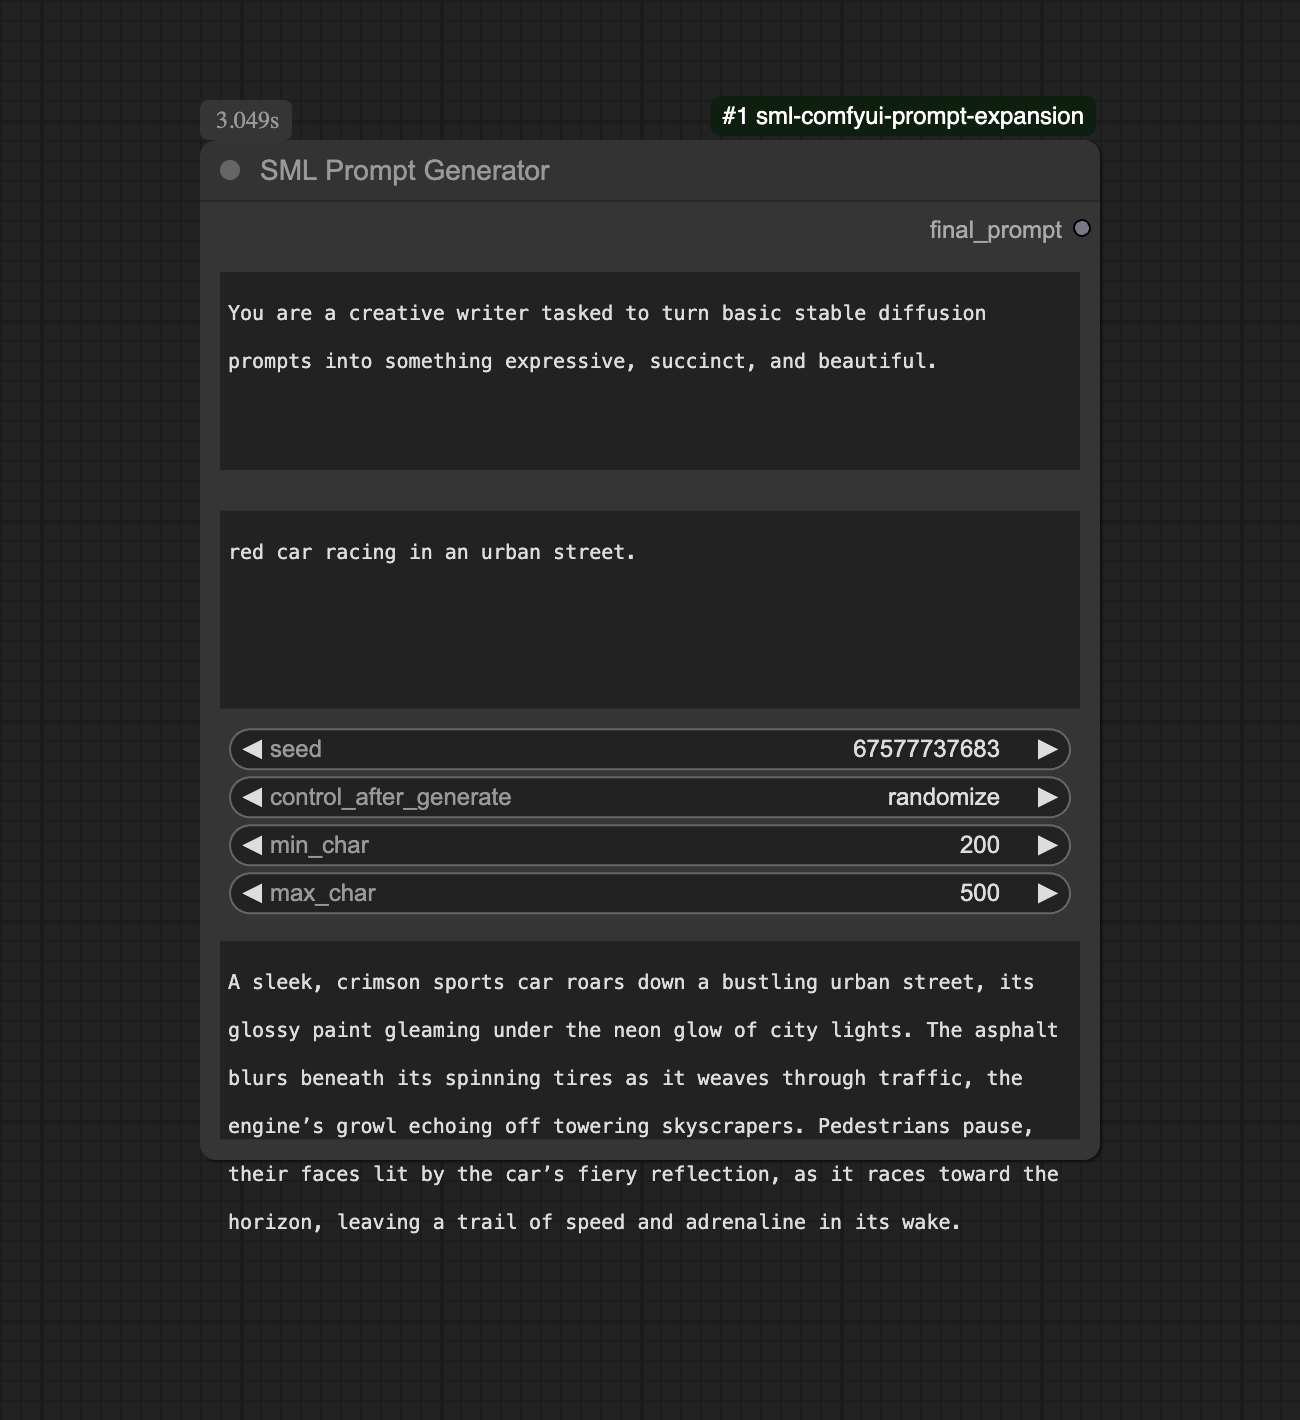
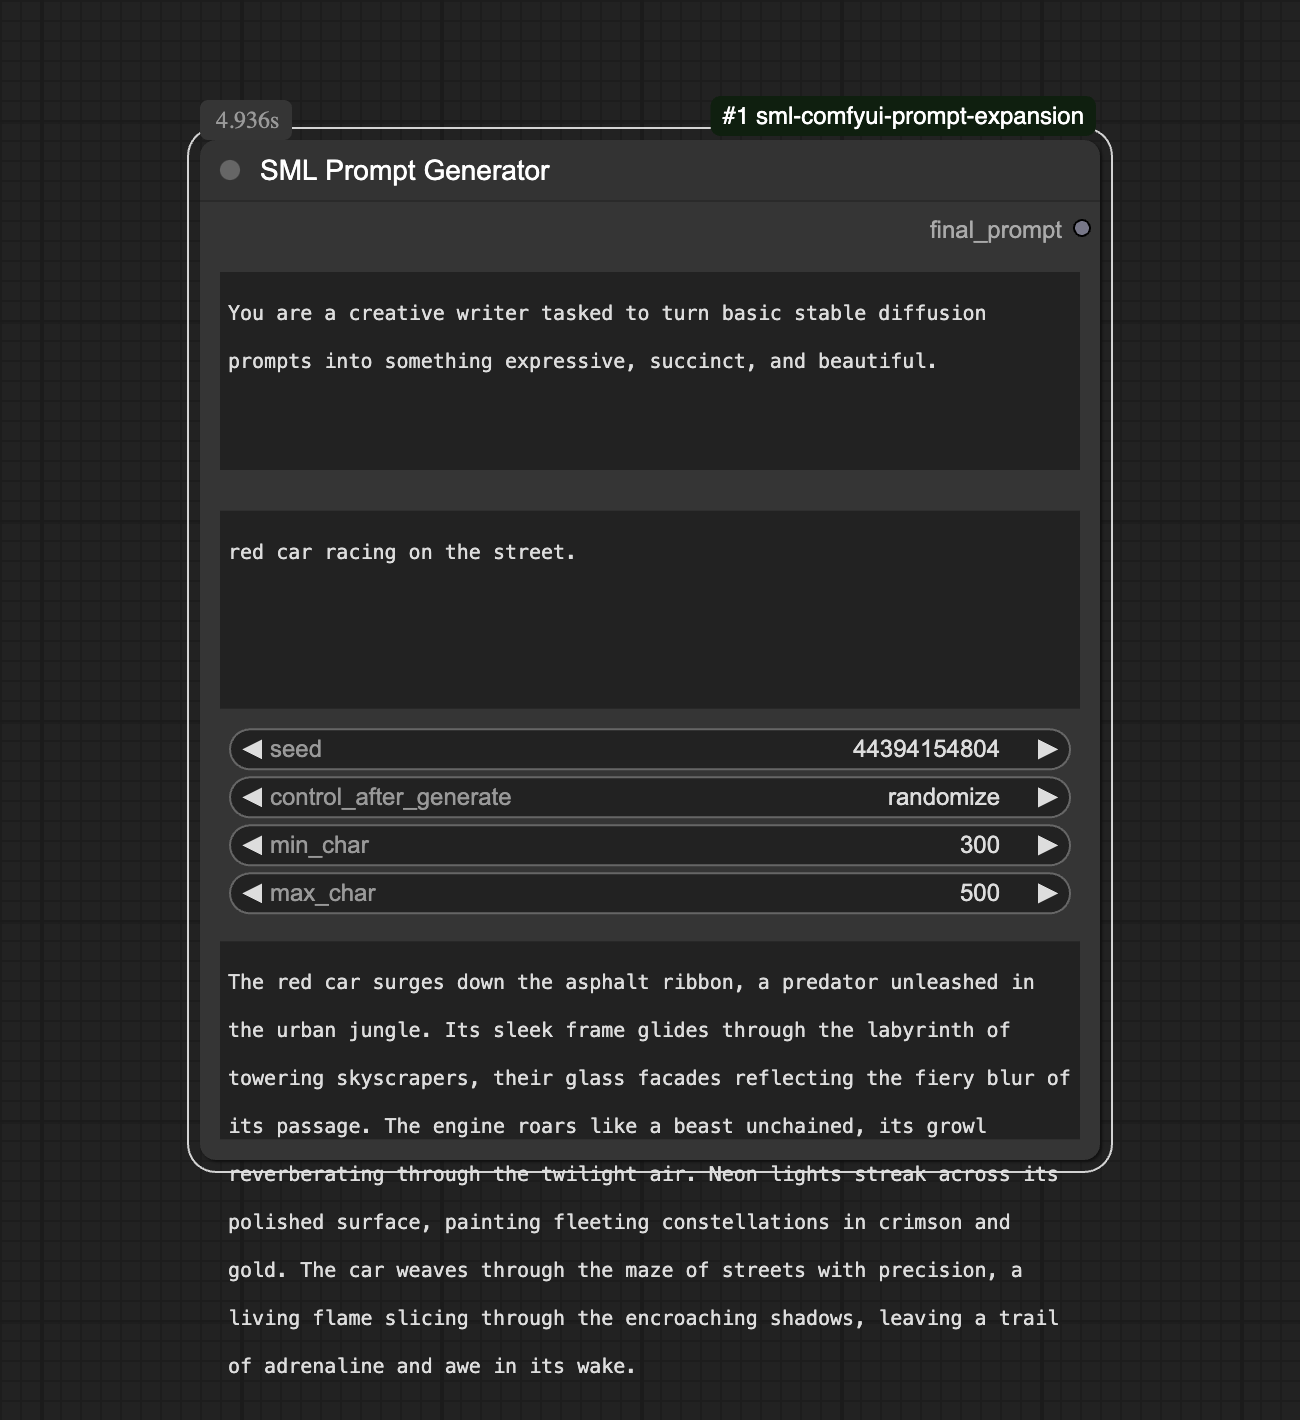
Add logic to store previous input

diff --git a/sml_prompt_exp/base_node.py b/sml_prompt_exp/base_node.py
@@ -5,6 +5,7 @@ import random
 
 class PromptGeneratorNode:
     api_token: str = None
+    previous_input:str = None
     previous_output: str = None
     use_char_limit: bool = True
 
@@ -123,9 +124,14 @@ class PromptGeneratorNode:
 
     def construct_prompt(self, input: str):
         p = input
-        if self.previous_output is not None:
-            rs = self.get_random_sentences(self.previous_output)
-            r = '. '.join(rs)
-            p = f"{p}. {r}."
+
+        if self.previous_input == input:
+            # if the same input is used, add a random sentence from previous input to ensure result is not repeated
+            if self.previous_output is not None:
+                rs = self.get_random_sentences(self.previous_output)
+                r = '. '.join(rs)
+                p = f"{p}. {r}."
+
+        self.previous_input = input
 
         return p
